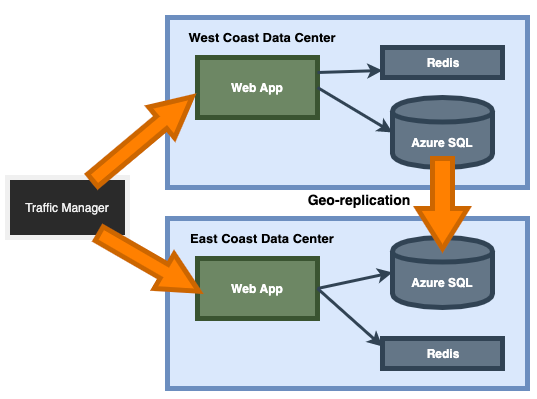
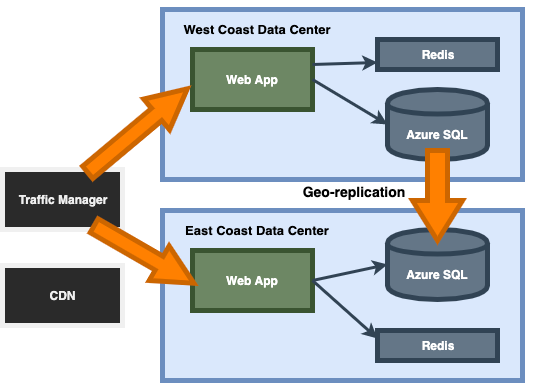
Updated cloud text

diff --git a/skill_cloud.html b/skill_cloud.html
@@ -79,19 +79,24 @@
 
             <div class="col-sm-12 col-md-8 mt-4">
                 <p>
-                        The <a href="https://www.crimemapping.com/" target="_blank">CrimeMapping.com</a> website allows public safety agencies provide recent crime information to the public.  
-                        The site has over 450 agencies, including <a href="https://www.crimemapping.com/map/agency/329" target="_blank" >San Diego PD</a>, 
-                        throughout North America publishing data.  The ASP.NET MVC site is deployed in Azure.
+                        The <a href="https://www.crimemapping.com/" target="_blank">CrimeMapping.com</a> website allows public safety agencies to 
+                        provide recent crime information to the public.  
+                        The site has over 450 agencies throughout North America, including <a href="https://www.crimemapping.com/map/agency/329" target="_blank" >San Diego PD</a>, 
+                        publishing data. 
                 </p>
                 <p>
-                        The development, staging and production environments are all within Azure as different subscriptions.  
+                        This ASP.NET MVC site is deployed within Azure. The development, staging and production environments are all in Azure as different subscriptions.  
                         This allows for the internal billing to be easily organized and makes for a great developer experience.
+                </p>
+                <p>
+                    I lead the team of 4 developers, 1 QA and 1 UX.  I was responsible for the architecture of site that had the goal of maintaining high availability
+                    and ensure that the website could handle spikes in traffic. I coded the server side framework and assisted in the UI design.
                 </p>
             </div>
 
             <div class="col-sm-12 col-md-4 mt-4">
                 <h5>Technology</h5>
-                <ul class="technologylist">
+                <ul>
                     <li>C#</li>
                     <li>JavaScript</li>
                     <li>ArcGIS JavaScript API</li>
@@ -115,7 +120,8 @@
 
                 </p>
                 <p>
-                        Geo-replication is enabled with Azure SQL with the West Coast data center being the master.
+                        Geo-replication is enabled with Azure SQL with the West Coast data center being the master. 
+                        The Azure Content Delivery Network (CDN) was used to improve scalability.
 
                 </p>
             </div>
@@ -144,7 +150,7 @@
                 </p>
             </div>
 
-            <div class="col-sm-12 col-md-6 mt-5">
+            <div class="col-sm-12 col-md-6 mt-5 mb-3">
                     <img class="img-fluid rounded" src="static/images/crimemapping_auto.png" alt="Azure: Automation">
             </div>
         </div>

diff --git a/index.html b/index.html
@@ -192,7 +192,7 @@
 
 
             <!-- Column: Dashboard Skill Image -->
-            <div class="col-sm-12 col-md-4 mt-4 text-center">
+            <div class="col-sm-12 col-md-4 mt-4 mb-3 text-center">
                     <a href="skill_dashboard.html">
                         <img class="img-fluid rounded homepageimage" src="static/images/dashboard_widgets.png" alt="CrimeView Dashboard">
                     </a>

diff --git a/static/css/app.css b/static/css/app.css
@@ -14,9 +14,9 @@
 }
 
 
-.technologylist{
-    font-size:12px;
-}
+/* .technologylist{
+    /* font-size:12px; 
+ */
 
 
 /* Font Awesome icons */
